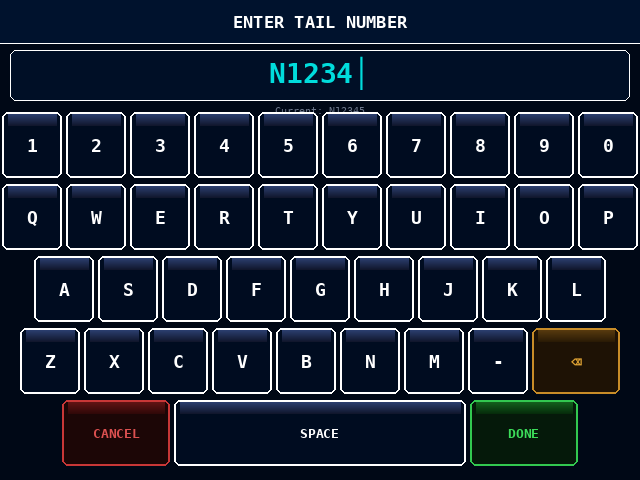
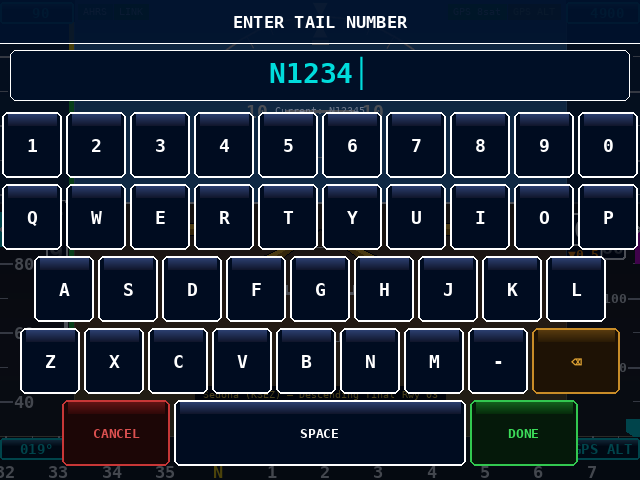
Make numpad and keyboard transparent overlays over live PFD
- render(): setup screens remain full-screen replacements; numpad and
  keyboard now render live PFD first, then composite a dark veil
  (alpha=180, (0,5,15)), then draw the UI on top
- draw_numpad / draw_keyboard: transparent=True skips surf.fill() and
  uses a semi-opaque SRCALPHA header panel (alpha=220) instead of a
  solid bar — PFD remains visible through both the veil and the header
- _veil_surf cached at module level (allocated once, reused every frame)
- preview_640x480.py: numpad and keyboard screens now composite over the
  Sedona approach screenshot with the same veil blend to show the effect
- Previews regenerated

https://claude.ai/code/session_017SH8gTHM3ctk1qfSPqffyG

diff --git a/pi_display/pfd.py b/pi_display/pfd.py
@@ -1493,12 +1493,16 @@ def _numpad_key(surf, col, row, label, style, r=8):
     _text(surf, label, 20, tc, bold=True, cx=bx+_NP_PW//2, cy=by+_NP_PH//2)
 
 
-def draw_numpad(surf, title, current_val, entered="", suffix=""):
+def draw_numpad(surf, title, current_val, entered="", suffix="", transparent=False):
     """Full-screen numeric entry pad.
-    suffix: appended to the entered value in the display box (e.g. '00' for alt_bug).
+    suffix:      appended in display box (e.g. '00' for alt_bug).
+    transparent: skip background fill; header is semi-opaque panel over live PFD.
     """
-    surf.fill((0, 8, 22))
-    pygame.draw.rect(surf, (0, 18, 45), (0, 0, DISPLAY_W, 44))
+    if not transparent:
+        surf.fill((0, 8, 22))
+    hdr = pygame.Surface((DISPLAY_W, 44), pygame.SRCALPHA)
+    hdr.fill((0, 18, 45, 220 if transparent else 255))
+    surf.blit(hdr, (0, 0))
     pygame.draw.line(surf, WHITE, (0, 43), (DISPLAY_W-1, 43), 1)
     _text(surf, title, 18, WHITE, bold=True, cx=DISPLAY_W//2, cy=22)
     # Value display — show entered digits then dim suffix (if any)
@@ -1673,10 +1677,13 @@ def _kb_key(surf, bx, by, bw, bh, label, style, r=6):
     _text(surf, label, fs, tc, bold=True, cx=bx+bw//2, cy=by+bh//2)
 
 
-def draw_keyboard(surf, title, current_val, entered=""):
+def draw_keyboard(surf, title, current_val, entered="", transparent=False):
     """Full-screen QWERTY keyboard for text entry."""
-    surf.fill((0,8,22))
-    pygame.draw.rect(surf,(0,18,45),(0,0,DISPLAY_W,44))
+    if not transparent:
+        surf.fill((0,8,22))
+    hdr = pygame.Surface((DISPLAY_W, 44), pygame.SRCALPHA)
+    hdr.fill((0, 18, 45, 220 if transparent else 255))
+    surf.blit(hdr, (0, 0))
     pygame.draw.line(surf,WHITE,(0,43),(DISPLAY_W-1,43),1)
     _text(surf,title,17,WHITE,bold=True,cx=DISPLAY_W//2,cy=22)
     disp_str = (entered if entered else str(current_val)) + "\u2502"
@@ -2470,71 +2477,39 @@ def draw_tap_buttons(surf, hdg, hdg_bug, baro_hpa, baro_src, alt_bug):
               x=ALT_X, y=y, w=ALT_W, h=22, font_sz=baro_fsz)
 
 
+# ── Veil surface for transparent overlay modes (allocated once) ───────────────
+_veil_surf = None
+
+def _draw_veil(surf):
+    """Alpha-blend a dark overlay onto surf for numpad/keyboard transparency."""
+    global _veil_surf
+    if _veil_surf is None:
+        _veil_surf = pygame.Surface((DISPLAY_W, DISPLAY_H), pygame.SRCALPHA)
+        _veil_surf.fill((0, 5, 15, 180))
+    surf.blit(_veil_surf, (0, 0))
+
+
 # ── Main render function ──────────────────────────────────────────────────────
 def render(surf, demo_mode, connected):
     mode = disp.get("mode", "pfd")
 
+    # ── Full-screen replacement screens (no PFD behind them) ─────────────────
     if mode == "setup":
-        draw_setup_screen(surf)
-        return
-
-    if mode == "numpad":
-        target  = disp.get("numpad_target", "")
-        buf     = disp.get("numpad_buf", "")
-        titles  = {"alt_bug": "SET ALTITUDE BUG  (\u00d7100 ft)",
-                   "hdg_bug": "SET HEADING BUG",
-                   "spd_bug": "SET GS BUG"}
-        curvals = {"alt_bug": int(disp.get("alt_bug", 0)) // 100,   # show hundreds
-                   "hdg_bug": int(disp.get("hdg_bug", 0)),
-                   "spd_bug": int(disp.get("spd_bug", 0))}
-        # Add V-speed fields from flight profile
-        for fkey, flabel, *_ in _FP_FIELDS:
-            if fkey not in titles:
-                titles[fkey]  = f"SET {flabel}"
-                curvals[fkey] = int(disp["fp"].get(fkey, 0))
-        draw_numpad(surf, titles.get(target, "ENTER VALUE"),
-                    curvals.get(target, 0), buf,
-                    suffix="00" if target == "alt_bug" else "")
-        return
-
+        draw_setup_screen(surf); return
     if mode == "flight_profile":
-        draw_flight_profile(surf, disp["fp"])
-        return
-
+        draw_flight_profile(surf, disp["fp"]); return
     if mode == "display_setup":
-        draw_display_setup(surf, disp["ds"])
-        return
-
+        draw_display_setup(surf, disp["ds"]); return
     if mode == "ahrs_setup":
-        draw_ahrs_setup(surf, disp["ss"])
-        return
-
+        draw_ahrs_setup(surf, disp["ss"]); return
     if mode == "connectivity_setup":
-        draw_connectivity_setup(surf, disp["cs"])
-        return
-
+        draw_connectivity_setup(surf, disp["cs"]); return
     if mode == "system_setup":
-        draw_system_setup(surf)
-        return
-
+        draw_system_setup(surf); return
     if mode == "terrain_data":
-        draw_terrain_data(surf, disp["td"])
-        return
+        draw_terrain_data(surf, disp["td"]); return
 
-    if mode == "keyboard":
-        target = disp.get("kbd_target", "")
-        buf    = disp.get("kbd_buf", "")
-        prev   = disp.get("kbd_prev", "flight_profile")
-        if prev == "connectivity_setup":
-            cur   = disp["cs"].get(target, "")
-            _cs_titles = {"ahrs_url": "AHRS URL", "wifi_ssid": "WiFi SSID"}
-            title = _cs_titles.get(target, "ENTER TEXT")
-        else:
-            cur   = disp["fp"].get(target, "")
-            title = next((f[1] for f in _FP_FIELDS if f[0]==target), "ENTER TEXT")
-        draw_keyboard(surf, f"ENTER {title}", cur, buf)
-        return
-
+    # ── PFD always renders for pfd / numpad / keyboard modes ─────────────────
     surf.fill((0, 0, 0))
 
     roll    = disp["roll"]
@@ -2629,6 +2604,40 @@ def render(surf, demo_mode, connected):
     # 12. Demo watermark
     if demo_mode:
         _text(surf, "DEMO", 14, (255, 60, 60), cx=CX, cy=CY - 20)
+
+    # ── Overlay modes: veil + UI drawn on top of live PFD ────────────────────
+    if mode == "numpad":
+        _draw_veil(surf)
+        target  = disp.get("numpad_target", "")
+        buf     = disp.get("numpad_buf", "")
+        titles  = {"alt_bug": "SET ALTITUDE BUG  (\u00d7100 ft)",
+                   "hdg_bug": "SET HEADING BUG",
+                   "spd_bug": "SET GS BUG"}
+        curvals = {"alt_bug": int(disp.get("alt_bug", 0)) // 100,
+                   "hdg_bug": int(disp.get("hdg_bug", 0)),
+                   "spd_bug": int(disp.get("spd_bug", 0))}
+        for fkey, flabel, *_ in _FP_FIELDS:
+            if fkey not in titles:
+                titles[fkey]  = f"SET {flabel}"
+                curvals[fkey] = int(disp["fp"].get(fkey, 0))
+        draw_numpad(surf, titles.get(target, "ENTER VALUE"),
+                    curvals.get(target, 0), buf,
+                    suffix="00" if target == "alt_bug" else "",
+                    transparent=True)
+
+    elif mode == "keyboard":
+        _draw_veil(surf)
+        target = disp.get("kbd_target", "")
+        buf    = disp.get("kbd_buf", "")
+        prev   = disp.get("kbd_prev", "flight_profile")
+        if prev == "connectivity_setup":
+            cur   = disp["cs"].get(target, "")
+            title = {"ahrs_url": "AHRS URL", "wifi_ssid": "WiFi SSID",
+                     "wifi_pass": "WiFi PASSWORD"}.get(target, "ENTER TEXT")
+        else:
+            cur   = disp["fp"].get(target, "")
+            title = next((f[1] for f in _FP_FIELDS if f[0]==target), "ENTER TEXT")
+        draw_keyboard(surf, f"ENTER {title}", cur, buf, transparent=True)
 
 
 # ── Terrain availability (computed once at import time) ───────────────────────

diff --git a/tools/preview_640x480.py b/tools/preview_640x480.py
@@ -861,15 +861,27 @@ def _numpad_btn(draw, col, row, label, style, r=8):
     draw.text((bx + (_NP_PW-lw)//2, by + (_NP_PH-22)//2), label, fill=tc, font=lf)
 
 
+def _pfd_bg():
+    """Return a live-PFD background image (approach preview), veiled at alpha=180."""
+    bg_path = os.path.join(OUT, "preview_sedona_approach.png")
+    if os.path.exists(bg_path):
+        bg = Image.open(bg_path).convert("RGB")
+    else:
+        bg = Image.new("RGB", (W, H), (0, 8, 22))
+    veil = Image.new("RGB", (W, H), (0, 5, 15))
+    return Image.blend(bg, veil, alpha=180/255)
+
+
 def draw_numpad_screen(title, current_val, filename, entered="", suffix=""):
-    """Render a full-screen numeric-entry pad (alt bug, hdg bug, GS bug, etc.).
-    suffix: appended in dim cyan after the entered digits (e.g. '00' for alt bug).
-    """
-    img  = Image.new('RGB', (W, H), (0, 8, 22))
+    """Render numpad overlaid on a live-PFD background (transparent effect)."""
+    img  = _pfd_bg()
     draw = ImageDraw.Draw(img)
 
-    # Title bar
-    draw.rectangle([(0, 0), (W-1, 43)], fill=(0, 18, 45))
+    # Title bar — semi-opaque panel matching transparent=True in pfd.py
+    hdr = Image.new("RGBA", (W, 44), (0, 18, 45, 220))
+    img.paste(Image.new("RGB", (W, 44), (0, 18, 45)),
+              mask=Image.new("L", (W, 44), 220))
+    draw = ImageDraw.Draw(img)   # re-acquire after paste
     draw.line([(0, 43), (W-1, 43)], fill=WHITE, width=1)
     tf = fnt(18, bold=True)
     draw.text(((W - int(draw.textlength(title, font=tf)))//2, 12),
@@ -1080,12 +1092,11 @@ def _kb_key(draw, bx, by, bw, bh, label, style, r=6):
 
 
 def draw_keyboard_screen(title, current_val, filename, entered=""):
-    """Render a full-screen QWERTY keyboard for text entry."""
-    img  = Image.new('RGB', (W, H), (0, 8, 22))
+    """Render keyboard overlaid on a live-PFD background (transparent effect)."""
+    img  = _pfd_bg()
+    img.paste(Image.new("RGB", (W, 44), (0, 18, 45)),
+              mask=Image.new("L", (W, 44), 220))
     draw = ImageDraw.Draw(img)
-
-    # Title bar
-    draw.rectangle([(0,0),(W-1,43)], fill=(0,18,45))
     draw.line([(0,43),(W-1,43)], fill=WHITE, width=1)
     tf = fnt(17, bold=True)
     draw.text(((W-int(draw.textlength(title,font=tf)))//2, 12),
